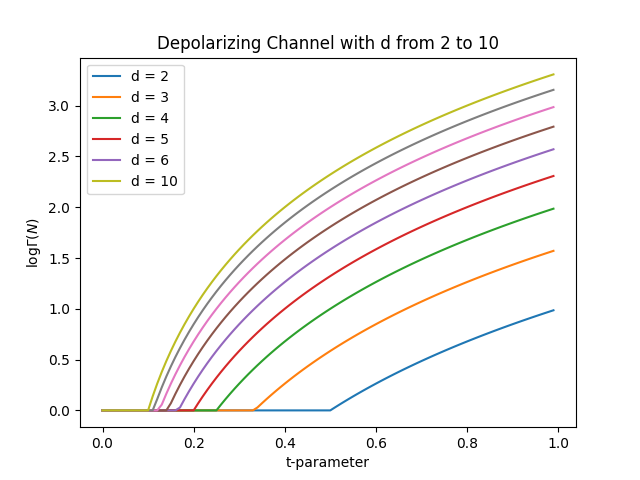
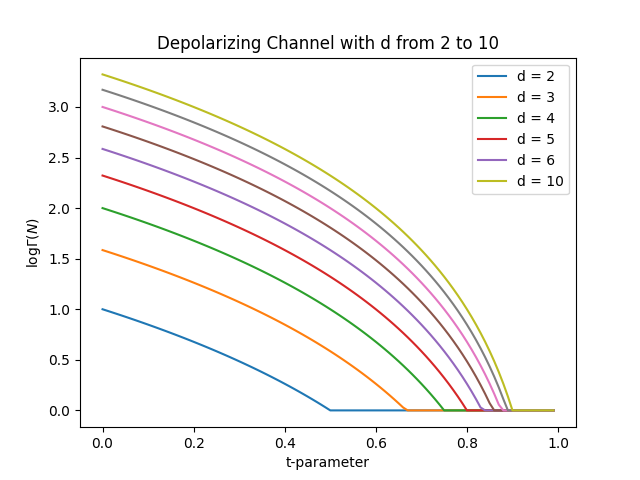
updated t parameter for Depolarizing Channel, regenerated plots

diff --git a/choi_plot.py b/choi_plot.py
@@ -105,7 +105,7 @@ def plot_all_(lower, upper, channel):
         t = np.arange(0, 1, 0.01, dtype=float)
         if channel[0] == "d":
             #q_vals = np.arange(0, d ** 2 / (d ** 2 - 1), 0.01, dtype=float)
-            q_vals = (1 - t) * (d ** 2 / (d ** 2 - 1))
+            q_vals = t * (d ** 2 / (d ** 2 - 1))
         if channel[0] == "w":
             #t = np.arange(0, 1, 0.01, dtype=float)
             q_vals = t * (d / (d + 1)) + (1 - t) * (d / (d - 1))
@@ -134,10 +134,7 @@ def plot_all_(lower, upper, channel):
         #plt.plot(q_vals, c)
         if (6 >= d >= 2) or d == 10:
             plt.plot(t, c, label="d = " + str(d))
-            if channel[0] == "d":
-                plt.legend(loc="upper left")
-            else:
-                plt.legend(loc="upper right")
+            plt.legend(loc="upper right")
         else:
             plt.plot(t, c)
 
